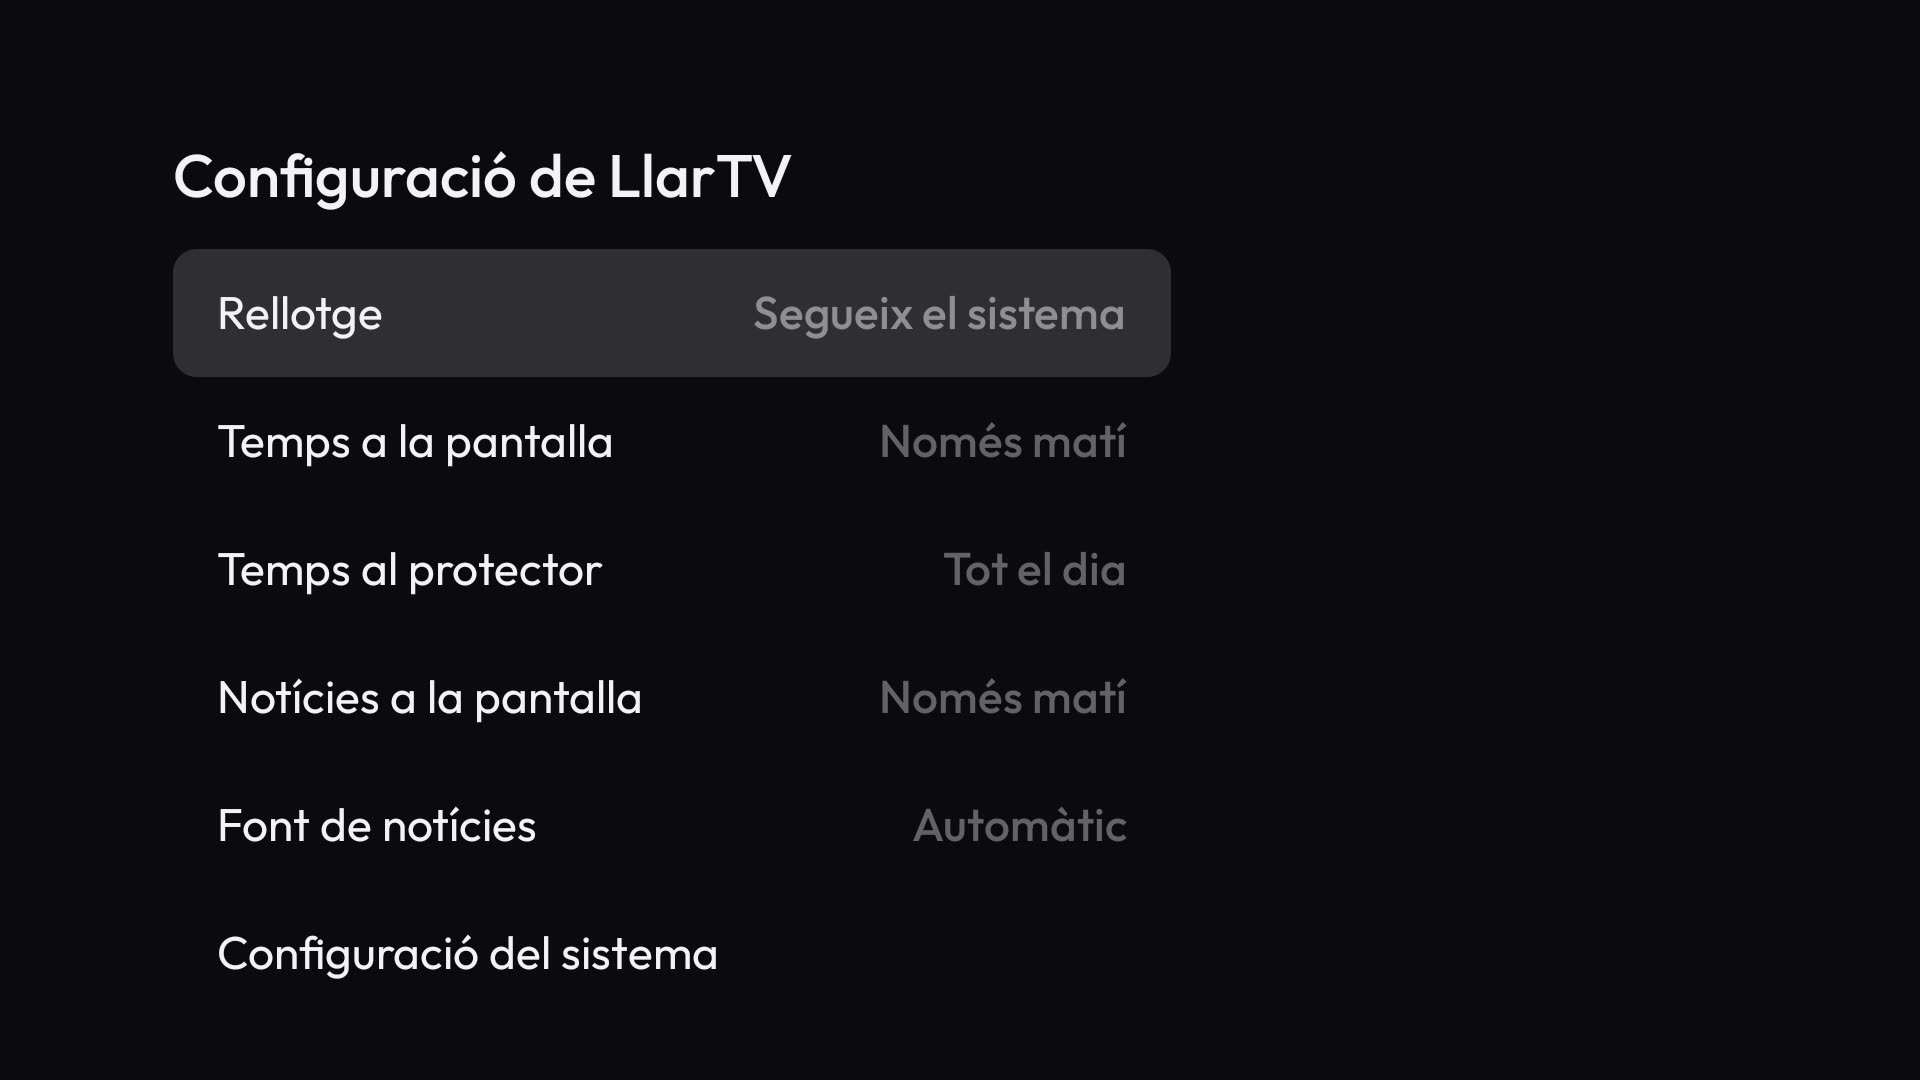
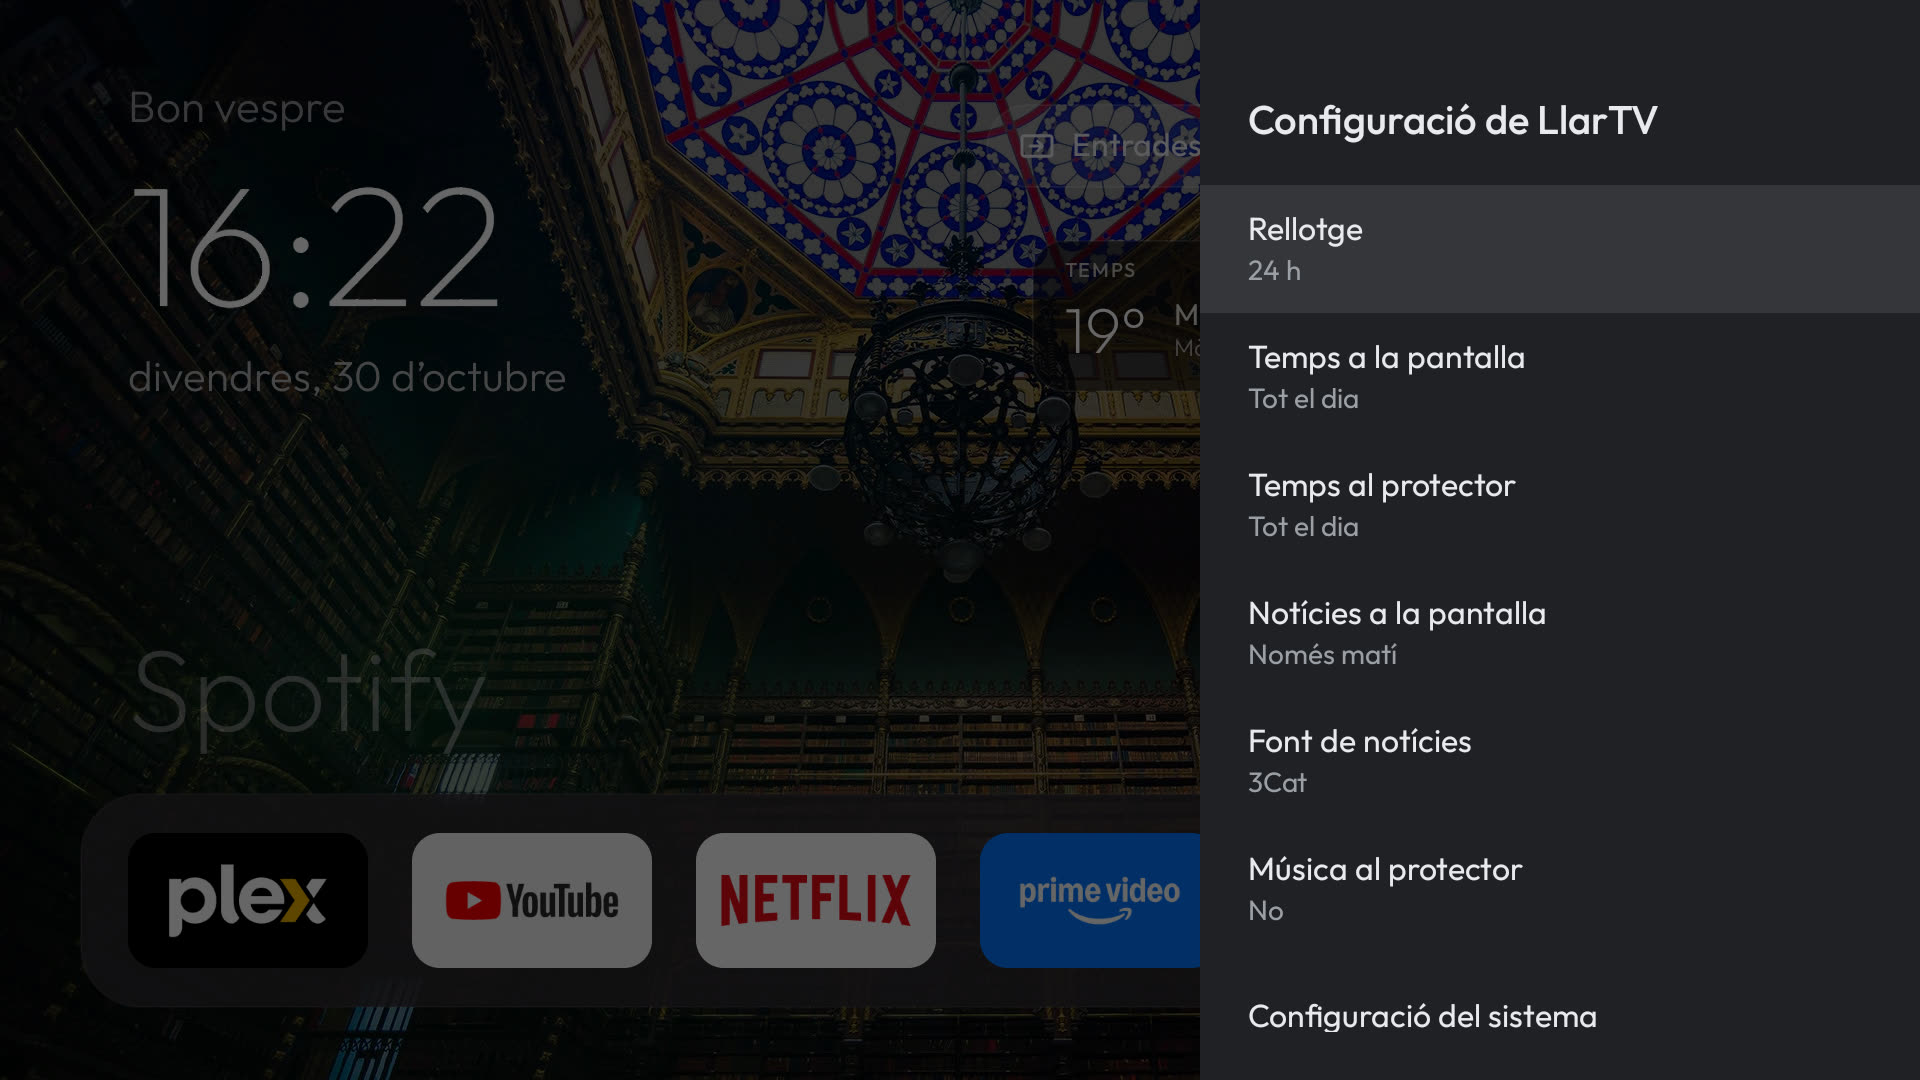
docs: show the settings side panel in the screenshot
Refs #21

diff --git a/README.md b/README.md
@@ -103,7 +103,7 @@ The settings menu and the screensaver on the TV:
 
 | Settings | Screensaver |
 | --- | --- |
-| ![The LlarTV settings menu on the TV](docs/screenshots/tv-settings.jpg) | ![The screensaver with the 12-hour clock and the weather on the TV](docs/screenshots/tv-screensaver.jpg) |
+| ![The LlarTV settings side panel on the TV](docs/screenshots/tv-settings.jpg) | ![The screensaver with the 12-hour clock and the weather on the TV](docs/screenshots/tv-screensaver.jpg) |
 
 ## Requirements
 
